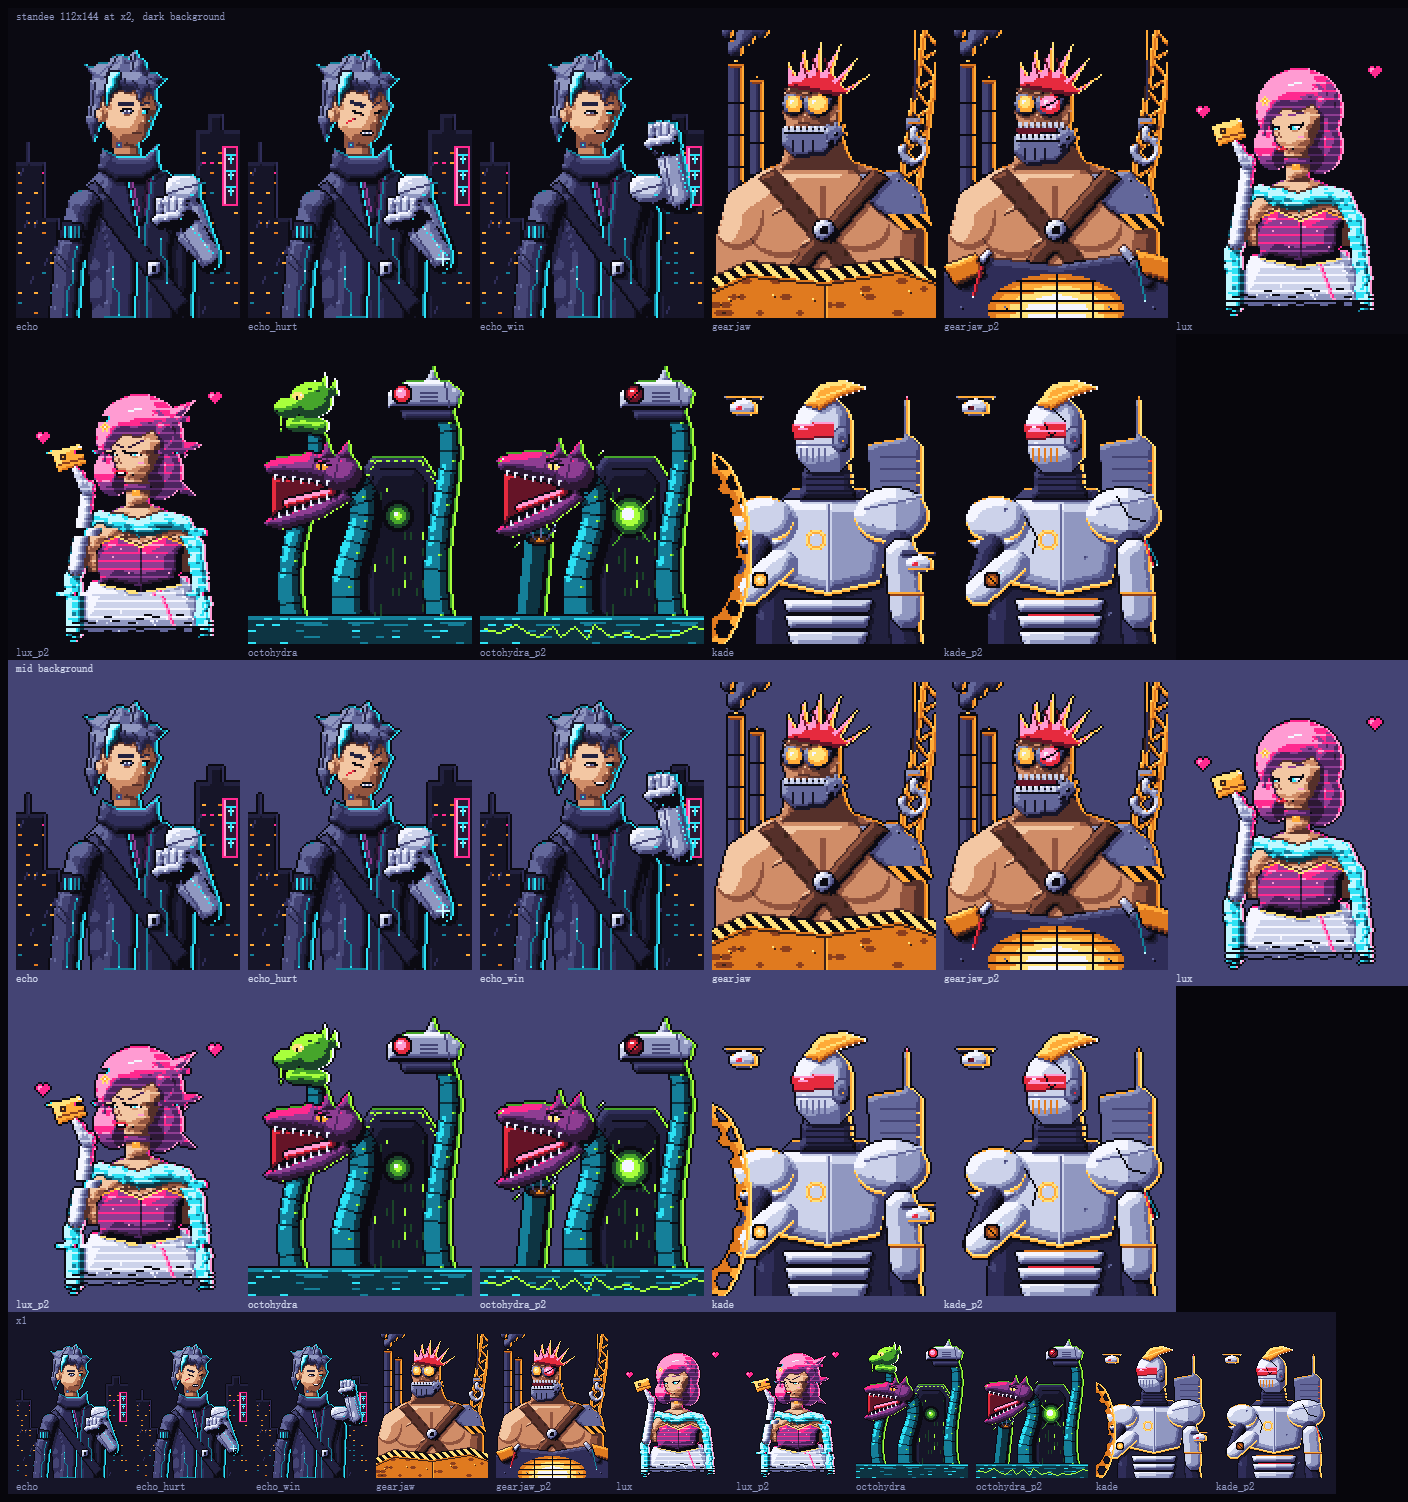
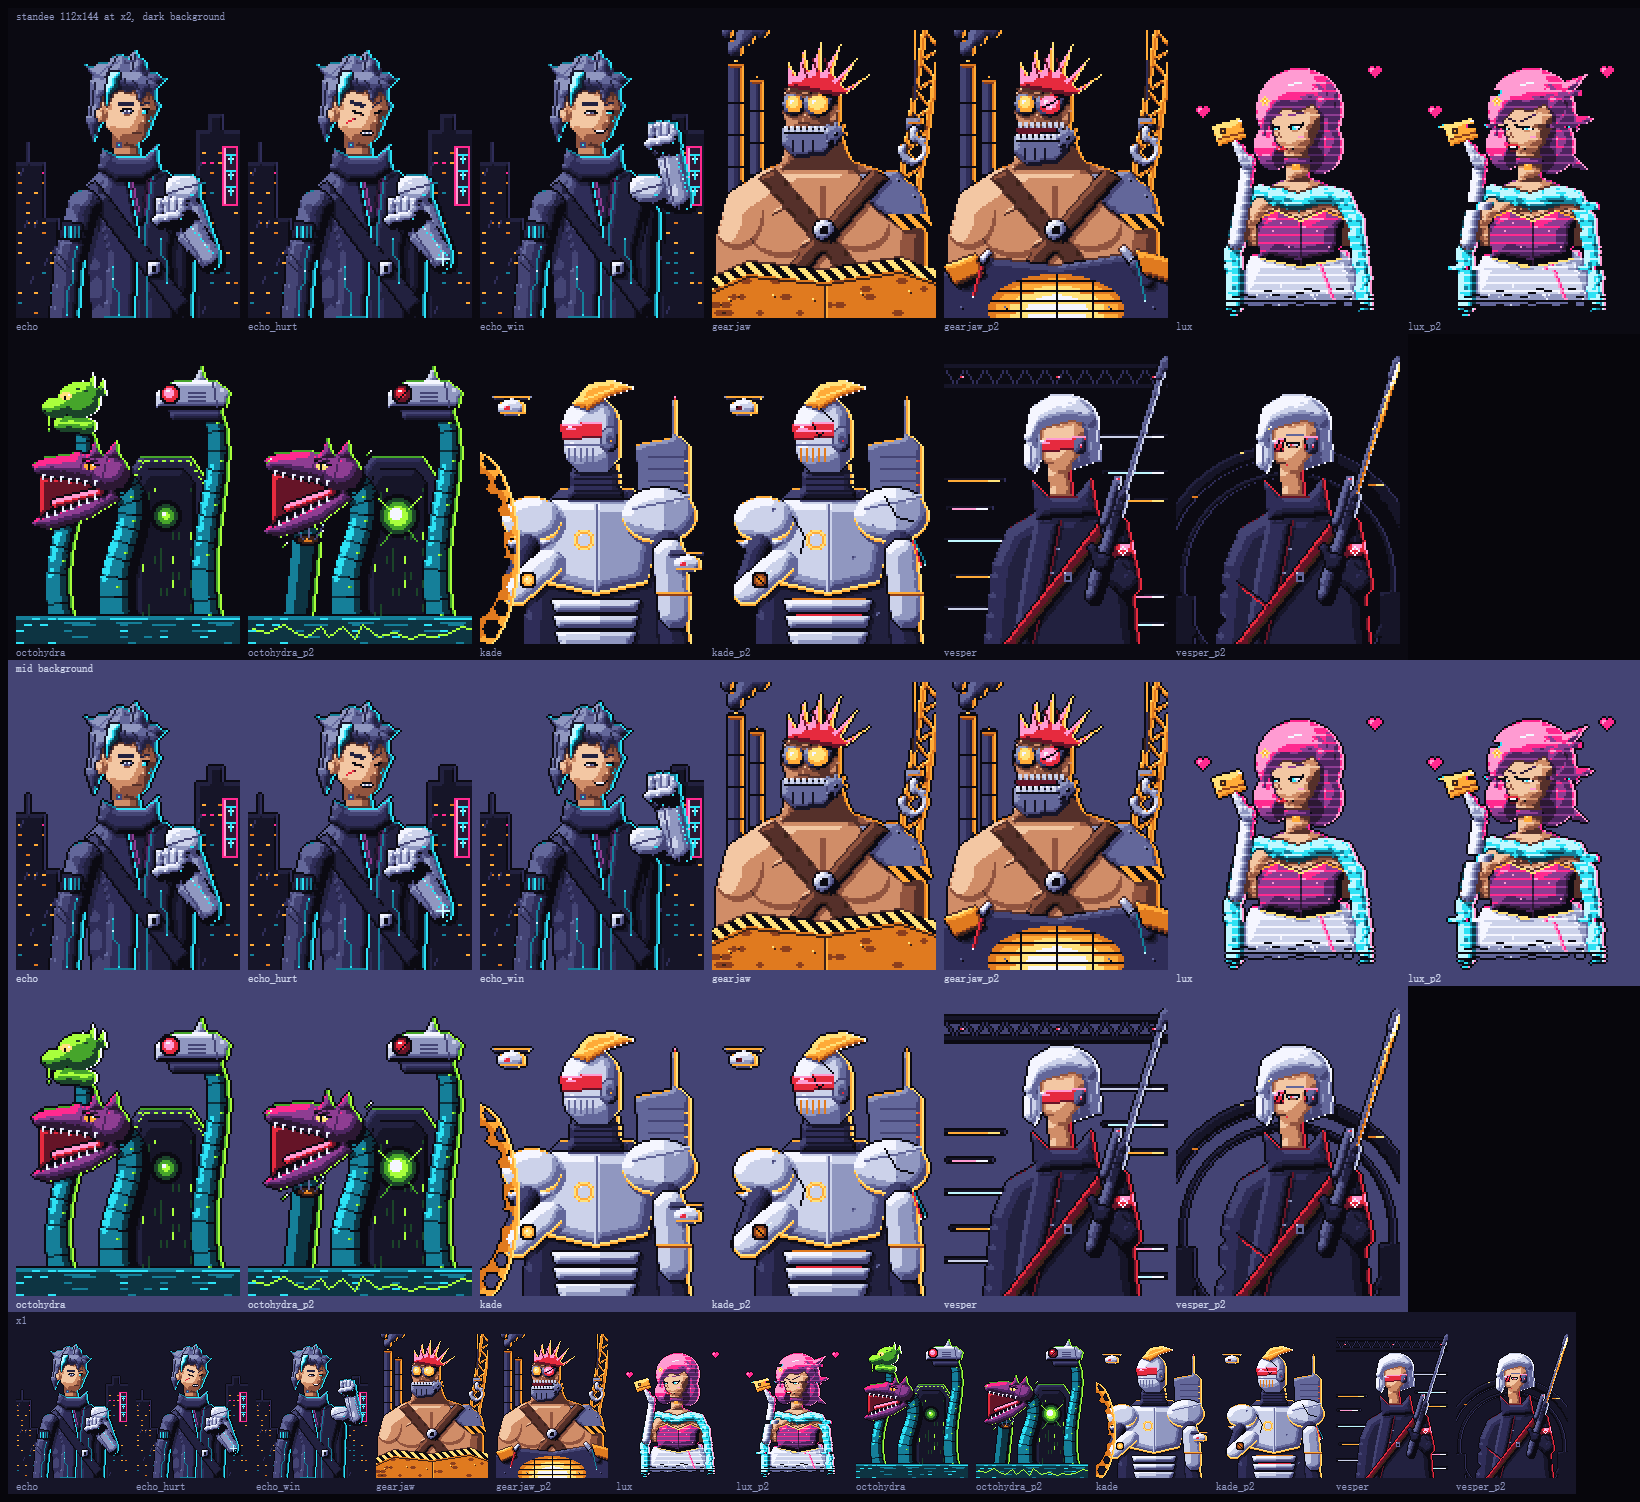
Vesper standees (vesper, vesper_p2)

diff --git a/src/art/standees.ts b/src/art/standees.ts
@@ -2,7 +2,7 @@
  * Standees (立绘): large half-body character portraits for intro cards, the hub and the result screen.
  *
  *   standee  112x144  echo, echo_hurt, echo_win, gearjaw, gearjaw_p2, lux, lux_p2,
- *                     octohydra, octohydra_p2, kade, kade_p2
+ *                     octohydra, octohydra_p2, kade, kade_p2, vesper, vesper_p2
  *
  * Shared lighting so the cast reads as one set: key light from the upper left front, a neon rim
  * light on the right-hand silhouette edge in each character's signature colour. Echo turns 3/4
@@ -36,6 +36,7 @@ export const STANDEE_FOCUS: Record<string, { face: Pt; glow: Pt[] }> = {
   lux: { face: [55, 48], glow: [[26, 51], [58, 48]] },
   octohydra: { face: [37, 55], glow: [[75, 80], [77, 19]] },
   kade: { face: [50, 37], glow: [[48, 37], [24, 112]] },
+  vesper: { face: [55, 44], glow: [[48, 42], [109, 8], [89, 97]] }, // glows: visor, muzzle (hot in P2), armband
 };
 
 const W = STANDEE_W, H = STANDEE_H;
@@ -1330,6 +1331,176 @@ function kade(p2: boolean): PixBuf {
   });
 }
 
+// ------------------------------------------------------------------ VESPER
+
+const COAT_V: Mat = { ramp: [C.ink, C.night, C.navy, C.indigo, C.slate], bias: -0.06 };
+const HAIR_V: Mat = { ramp: [C.slate, C.steel, C.fog, C.pale, C.white], bias: 0.06, rim: [C.white, C.pale] };
+const SKIN_V: Mat = { ramp: [C.skinD, C.skinM, C.skinL], bias: 0.16 };
+const GUN_V: Mat = { ramp: [C.ink, C.night, C.navy, C.slate, C.steel], bias: 0, rim: [C.pale, C.steel] };
+const GLOVE_V: Mat = { ramp: [C.ink, C.night, C.navy, C.indigo], bias: 0 };
+const BACK_V: Mat = { ramp: [C.ink, C.night, C.navy], bias: -0.2, rim: [C.indigo], back: true };
+
+/** P1: a gantry beam overhead and city lights smeared into speed streaks. P2: a dark tunnel. */
+function vesperBackdrop(s: Stage, p2: boolean): void {
+  if (!p2) {
+    // gantry truss overhead (the arena hazard), red warning lamps
+    s.part(BACK_V, (b) => {
+      b.rect(0, 4, W, 3, 1); b.rect(0, 14, W, 3, 1);
+      for (let x = 0; x < W; x += 10) { b.line(x, 6, x + 5, 14, 1); b.line(x + 5, 14, x + 10, 6, 1); }
+    }, { r: 1, cast: 0 });
+    s.paint((b) => { for (const x of [8, 56, 104]) { b.set(x, 10, C.red); b.set(x + 1, 10, C.rose); } });
+    // speed streaks behind the shoulders
+    const streaks: [number, number, number, number][] = [
+      [0, 62, 30, C.sodium], [2, 76, 22, C.rose], [0, 92, 36, C.ice], [4, 110, 26, C.sodium], [0, 126, 30, C.pale],
+      [80, 58, 32, C.ice], [86, 72, 26, C.sodium], [78, 120, 34, C.rose], [84, 134, 28, C.ice], [70, 40, 42, C.pale],
+    ];
+    for (const [x, y, len] of streaks) s.part(BACK_V, (b) => b.capsule(x, y, x + len, y, 1.3, 1), { r: 1, cast: 0 });
+    s.paint((b) => {
+      for (const [x, y, len, c] of streaks) {
+        b.hline(x + 2, x + len - 4, y, c);
+        b.hline(x + len - 8, x + len - 3, y, c === C.sodium ? C.amber : C.white);
+      }
+    });
+  } else {
+    // tunnel: ribbed arch segments, sparse lamps streaking past
+    s.part(BACK_V, (b) => {
+      b.ring(56, 112, 68, 1, 7);
+      b.ring(56, 112, 54, 1, 3);
+      b.rect(0, 120, 10, 24, 1); b.rect(102, 118, 10, 26, 1);
+    }, { r: 2, cast: 0 });
+    s.paint((b) => {
+      for (const [x, y] of [[12, 70], [100, 64], [30, 48], [80, 46], [6, 100]] as Pt[]) { b.hline(x - 4, x + 3, y, C.orange); b.hline(x, x + 3, y, C.amber); }
+    }, s.mask((b) => b.ring(56, 112, 68, 1, 7)));
+  }
+}
+
+function vesper(p2: boolean): PixBuf {
+  const s = new Stage([C.red, C.maroon]);
+  vesperBackdrop(s, p2);
+  const hx = 58, hy = 40;
+  // --- hair, back mass: a sharp platinum bob cut level at the jaw
+  s.part(HAIR_V, (b) => {
+    b.ellipse(hx + 3, hy - 4, 17.5, 17, 1);
+    b.poly([[hx + 4, hy - 6], [hx + 20, hy - 4], [hx + 21, hy + 12], [hx + 6, hy + 17]], 1);
+  }, { r: 10 });
+  s.paint((b) => { for (const [x0, x1] of [[hx + 8, hx + 9], [hx + 13, hx + 15], [hx + 18, hx + 20]] as const) b.line(x0, hy - 8, x1, hy + 12, C.steel); });
+  s.light(-0.3, (b) => b.ellipse(hx + 4, hy + 14, 12, 6, 1));
+  // --- coat: slim shoulders, long and dark
+  const coat = s.part(COAT_V, (b) => b.poly([[24, 104], [32, 86], [46, 78], [70, 78], [86, 82], [94, 96], [98, 144], [20, 144]], 1), { r: 8 });
+  s.light(-0.14, (b) => b.poly([[66, 76], [100, 76], [100, 144], [62, 144]], 1), coat);
+  // lapels + clasps + red piping down the closure
+  s.part(COAT_V, (b) => b.poly([[46, 80], [58, 82], [52, 112], [44, 144], [34, 144], [40, 108]], 1), { r: 3, bias: 0.08 });
+  s.paint((b) => {
+    b.line(58, 82, 52, 112, C.maroon); b.line(52, 112, 44, 143, C.maroon);
+    for (const y of [96, 108, 120]) { b.set(56 - (y - 96) / 4, y, C.steel); b.set(57 - (y - 96) / 4, y, C.fog); }
+  });
+  // --- neck + tall collar
+  s.part(SKIN_V, (b) => b.poly([[52, 52], [64, 52], [65, 74], [53, 74]], 1), { r: 5, bias: -0.25 });
+  s.part(COAT_V, (b) => b.poly([[44, 62], [52, 70], [66, 70], [74, 60], [78, 80], [46, 82]], 1), { r: 4, bias: 0.05 });
+  s.paint((b) => { b.line(44, 62, 52, 70, C.red); b.hline(52, 66, 70, C.maroon); });
+  // rifle sling across the chest (near shoulder -> far hip)
+  s.part({ ramp: [C.ink, C.umber, C.maroon, C.red], bias: -0.1 }, (b) => b.poly([[80, 80], [86, 84], [38, 144], [30, 144]], 1), { r: 1.5, cast: 0.2 });
+  s.paint((b) => { b.rect(60, 108, 4, 5, C.steel); b.set(60, 108, C.pale); b.rect(61, 110, 2, 2, C.ink); });
+  // --- near arm (viewer-right) holding the rifle on the shoulder; red Halcyon armband
+  const arm = s.part(COAT_V, (b) => b.capsule(86, 86, 92, 114, 7, 1), { r: 6, cast: 0.25 });
+  s.part({ ramp: [C.maroon, C.red, C.rose], rim: [C.rose, C.red] }, (b) => b.capsule(82, 98, 97, 96, 3, 1), { r: 2, clip: arm, cast: 0.2 });
+  s.paint((b) => { b.ring(89.5, 97.5, 2.2, C.white, 1); b.set(89, 97, C.red); });
+  s.part(COAT_V, (b) => b.capsule(92, 114, 80, 104, 6, 1), { r: 5, cast: 0.25 });
+  // --- rifle over the shoulder: stock low at the front, long barrel up and back past the frame
+  const g0: Pt = [74, 120], g1: Pt = [111, 2];
+  const dl = Math.hypot(g1[0] - g0[0], g1[1] - g0[1]);
+  const ux = (g1[0] - g0[0]) / dl, uy = (g1[1] - g0[1]) / dl;
+  const at = (t: number, off = 0): Pt => [g0[0] + (g1[0] - g0[0]) * t - uy * off, g0[1] + (g1[1] - g0[1]) * t + ux * off];
+  const [ax, ay] = at(0), [bx, by] = at(0.42), [cx, cy] = at(0.42), [dx, dy] = at(1);
+  s.part(GUN_V, (b) => { b.capsule(ax, ay, bx, by, 3.4, 1); b.poly([at(0.05, -4), at(0.2, -4), at(0.2, 3), at(0.05, 3)], 1); }, { r: 3, cast: 0.3 });
+  s.part(GUN_V, (b) => b.capsule(cx, cy, dx, dy, 1.6, 1), { r: 2, cast: 0.25, bias: 0.06 });
+  // scope on the head side, muzzle brake
+  const [s0x, s0y] = at(0.3, -5), [s1x, s1y] = at(0.48, -5);
+  s.part(GUN_V, (b) => { b.capsule(s0x, s0y, s1x, s1y, 2.4, 1); b.capsule(...at(0.36, -1), ...at(0.36, -4), 1, 1); }, { r: 2, cast: 0.25, bias: 0.08 });
+  s.paint((b) => { const [lx, ly] = at(0.49, -5); b.set(Math.round(lx), Math.round(ly), C.red); b.set(Math.round(lx) - 1, Math.round(ly), C.rose); });
+  s.part(GUN_V, (b) => b.capsule(...at(0.93), ...at(0.99), 2.4, 1), { r: 1.5, cast: 0.15 });
+  if (p2) {
+    // overcharged barrel: heat glow climbing towards the muzzle
+    s.paint((b) => {
+      for (let t = 0.44; t <= 0.99; t += 0.004) {
+        const [x, y] = at(t);
+        const c = t > 0.9 ? C.white : t > 0.78 ? C.amber : t > 0.62 ? C.sodium : C.orange;
+        b.set(Math.round(x), Math.round(y), c);
+        if (t > 0.7) b.set(Math.round(x) + 1, Math.round(y), t > 0.9 ? C.amber : C.orange);
+      }
+    });
+  } else {
+    s.paint((b) => { for (let t = 0.46; t < 0.92; t += 0.08) { const [x, y] = at(t, 1); b.set(Math.round(x), Math.round(y), C.steel); } });
+  }
+  // gloved hand on the grip
+  s.part(GLOVE_V, (b) => { b.ellipse(79, 103, 4.5, 4, 1); b.capsule(76, 101, 74, 96, 1.6, 1); }, { r: 2, cast: 0.25 });
+  // --- face
+  s.part(SKIN_V, (b) => {
+    b.ellipse(hx, hy, 12, 13.5, 1);
+    b.poly([[hx - 12, hy + 1], [hx - 10, hy + 10], [hx - 5, hy + 16], [hx + 2, hy + 17], [hx + 9, hy + 11], [hx + 12, hy + 2]], 1);
+  }, { r: 8, bias: 0.08, cast: 0.3 });
+  s.light(-0.32, (b) => b.poly([[hx + 5, hy + 2], [hx + 14, hy - 4], [hx + 14, hy + 20], [hx + 1, hy + 19], [hx + 7, hy + 10]], 1));
+  vesperFace(s, hx, hy, p2);
+  // front lock of the A-line bob: longer at the front, cut at an angle below the jaw
+  s.part(HAIR_V, (b) => b.poly([[hx - 17, hy - 6], [hx - 10, hy - 6], [hx - 9, hy + 12], [hx - 12, hy + 19], [hx - 18, hy + 15]], 1), { r: 4, bias: 0.04, cast: 0.25 });
+  s.paint((b) => { b.line(hx - 14, hy - 4, hx - 15, hy + 14, C.steel); b.line(hx - 11, hy - 2, hx - 11, hy + 14, C.fog); });
+  // --- fringe: long and straight, swept over the front of the face
+  s.part(HAIR_V, (b) => b.poly([
+    [hx - 18, hy + 2], [hx - 15, hy - 14], [hx - 4, hy - 21], [hx + 10, hy - 19], [hx + 18, hy - 10],
+    [hx + 14, hy - 6], [hx + 6, hy - 8], [hx - 2, hy - 6], [hx - 9, hy - 4], [hx - 13, hy + 4],
+  ], 1), { r: 6, bias: 0.06, cast: 0.25 });
+  s.paint((b) => {
+    b.line(hx - 12, hy - 13, hx - 3, hy - 19, C.white); b.line(hx - 11, hy - 12, hx - 2, hy - 18, C.white);
+    b.line(hx + 4, hy - 17, hx + 10, hy - 15, C.pale);
+    b.line(hx - 14, hy - 2, hx - 8, hy - 8, C.steel); b.line(hx + 2, hy - 9, hx + 10, hy - 12, C.steel);
+  });
+  return s.resolve((b) => {
+    if (p2) {
+      // torn coat: notches out of the silhouette and a slash across the front showing the red lining
+      for (const [x, y, w] of [[22, 116, 4], [21, 132, 5], [96, 128, 3]] as const) b.poly([[x - 1, y - w], [x + w, y], [x - 1, y + w]], 0);
+      b.line(30, 112, 46, 124, C.ink); b.line(31, 114, 45, 125, C.maroon); b.line(33, 116, 43, 124, C.red);
+      // sparks off the barrel and the broken visor
+      for (const [x, y] of [[104, 20], [98, 36], [108, 12], [46, 36]] as Pt[]) { b.set(x, y, C.amber); b.set(x + 1, y - 1, C.white); }
+    }
+  });
+}
+
+function vesperFace(s: Stage, hx: number, hy: number, p2: boolean): void {
+  const lg = legend({ d: C.skinD, m: C.skinM, x: C.skinX, R: C.red, r: C.rose, M: C.maroon, P: C.pale });
+  const vy = hy + 2;
+  // P2: the near half of the visor is broken off
+  const visorClip = p2 ? s.mask((b) => { b.rect(0, 0, hx - 4, H, 1); b.rect(hx + 6, 0, W, H, 1); }) : undefined;
+  // visor band wrapping from the front of the face round to the ear module
+  s.paint((b) => {
+    b.poly([[hx - 14, vy], [hx + 13, vy - 2], [hx + 13, vy + 4], [hx - 13, vy + 5]], C.red);
+    b.line(hx - 14, vy, hx + 12, vy - 2, C.rose);
+    b.line(hx - 13, vy + 5, hx + 12, vy + 4, C.maroon);
+    b.hline(hx - 11, hx - 6, vy + 1, C.rose);
+    b.set(hx - 10, vy, C.white); b.set(hx - 9, vy, C.white);
+  }, visorClip);
+  // ear module holding the visor
+  s.part(GUN_V, (b) => b.ellipse(hx + 10, vy + 3, 3.5, 4.5, 1), { r: 2, cast: 0.2, bias: 0.1 });
+  s.paint((b) => { b.set(hx + 10, vy + 3, C.red); b.set(hx + 10, vy + 2, C.rose); });
+  if (p2) {
+    // one cold eye shows through the gap, red iris; crack lines through the rest of the visor
+    s.grid(`
+      kkkkkkk
+      kPRrPPk
+      .kdddk.`, lg, hx - 3, vy + 1);
+    s.paint((b) => {
+      b.line(hx - 4, vy - 1, hx - 6, vy + 5, C.ink); b.line(hx - 9, vy + 4, hx - 7, vy, C.ink);
+      b.line(hx + 6, vy - 1, hx + 7, vy + 4, C.ink);
+      b.line(hx - 3, vy - 3, hx + 5, vy - 3, C.steel);
+    });
+  }
+  // nose, cheek, mouth: cold, a thin straight line
+  s.paint((b) => {
+    b.set(hx - 10, hy + 6, C.skinM); b.set(hx - 10, hy + 7, C.skinD); b.set(hx - 9, hy + 8, C.skinD);
+    b.hline(hx - 8, hx - 4, hy + 13, p2 ? C.skinX : C.skinD); b.set(hx - 8, hy + 13, C.skinX);
+    if (p2) { b.set(hx - 10, hy + 12, C.skinX); b.set(hx - 3, hy + 14, C.red); }
+  });
+}
+
 // ------------------------------------------------------------------ registry
 
 export function buildStandeeArt(): SheetSpec[] {
@@ -1345,6 +1516,8 @@ export function buildStandeeArt(): SheetSpec[] {
     { name: 'octohydra_p2', buf: octohydra(true) },
     { name: 'kade', buf: kade(false) },
     { name: 'kade_p2', buf: kade(true) },
+    { name: 'vesper', buf: vesper(false) },
+    { name: 'vesper_p2', buf: vesper(true) },
   ];
   return [{
     key: 'standee', group: 'Standees', frameW: W, frameH: H, columns: 6, frames,
